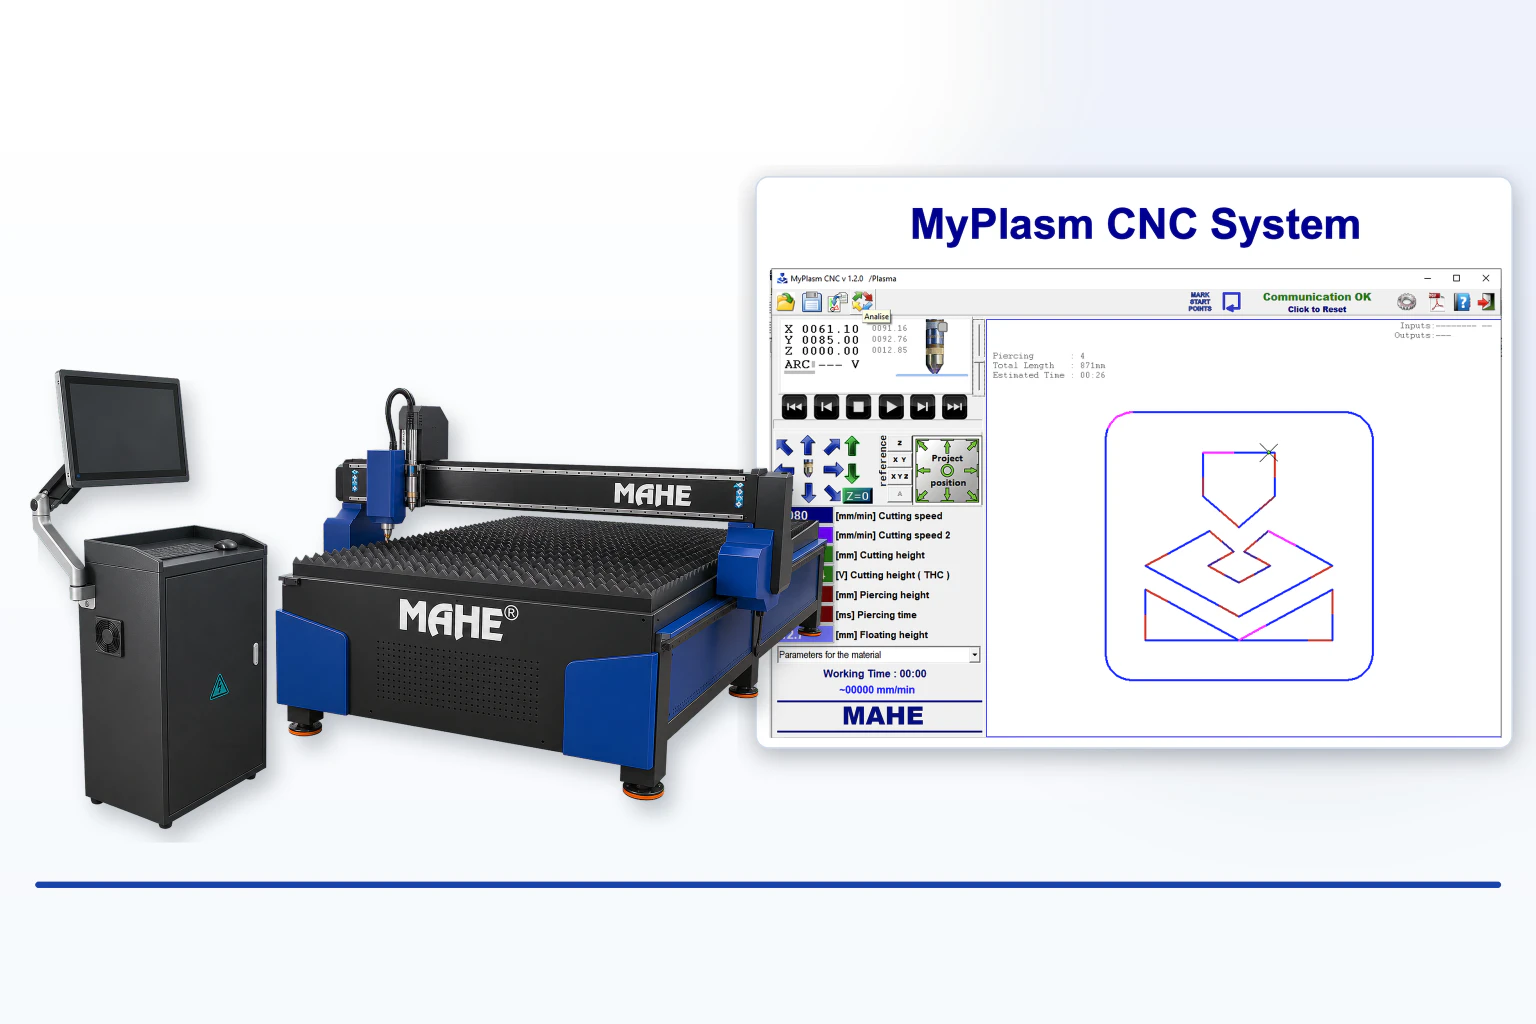
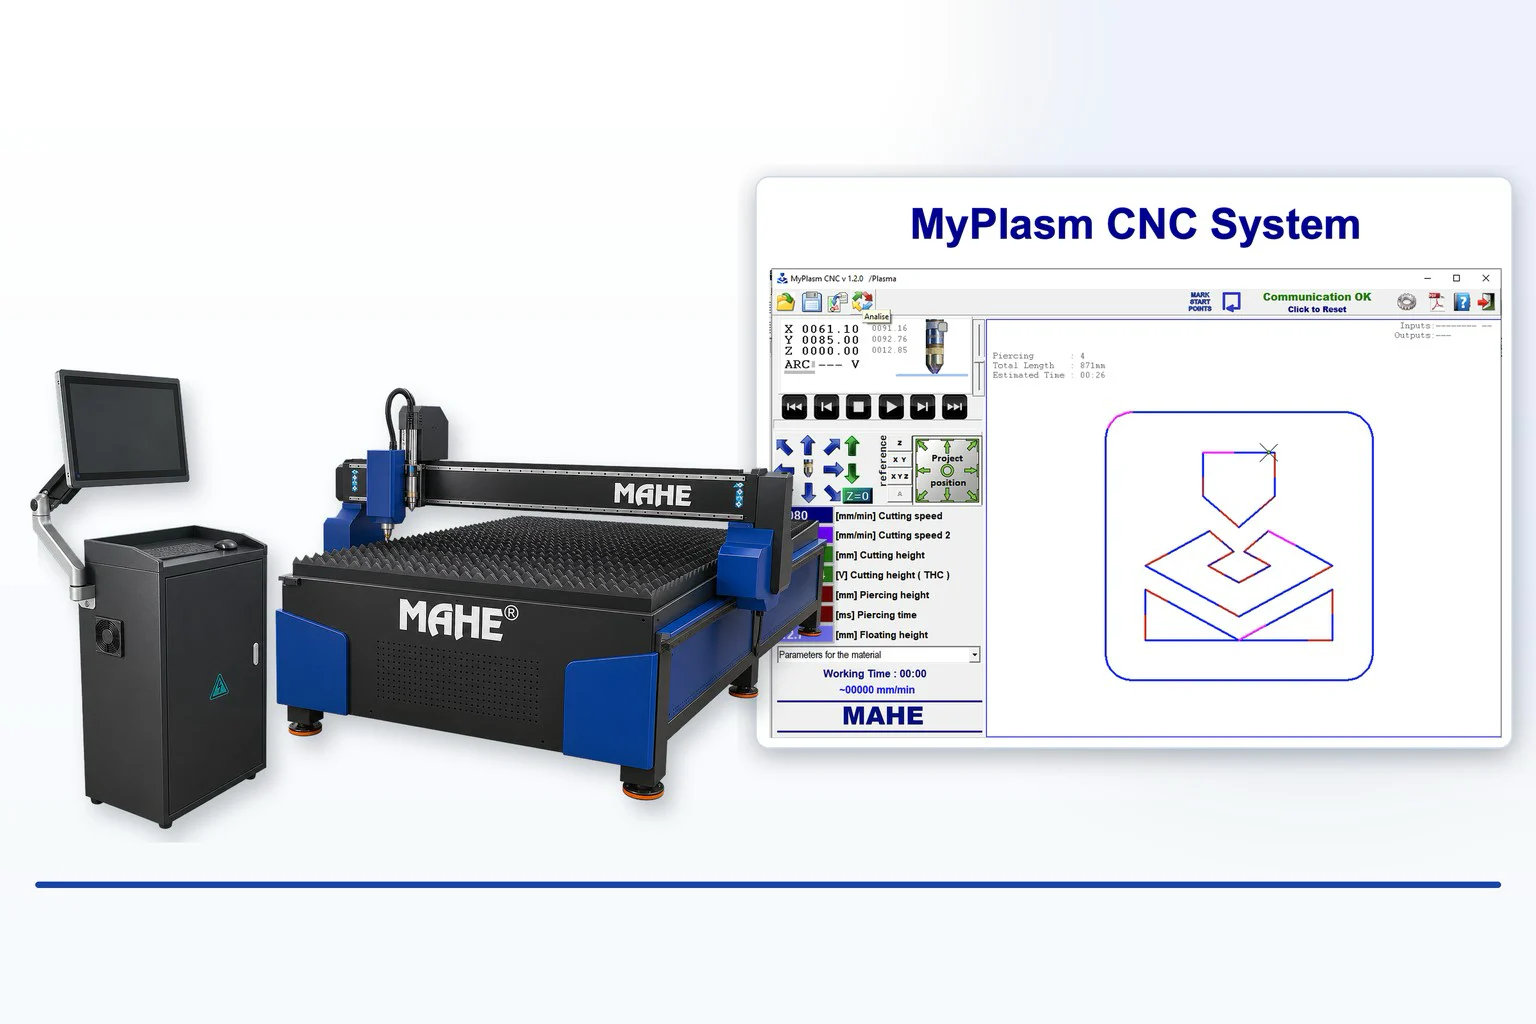
Herobilder: keine hochgerechnete Stufe mehr, Masse aus dem Bild
Die zweite Folie der Diaschau wirkte unscharf. Der Grund war messbar: die
Vorlage hero-mpt.jpg ist 1536 px breit, im srcset stand aber eine Stufe
"2048w". Diese Datei war hochgerechnet - 2048 x 1366 aus einer 1536er
Vorlage. Ein Browser auf einem feinen Bildschirm waehlt genau die groesste
Stufe und zieht damit ein weich gerechnetes Bild auf die volle Breite. Die
kleinere, scharfe Stufe waere besser gewesen.

Dazu ein zweiter Fehler, der noch nicht aufgefallen war: width und height
standen fest auf 1536x1024 - fuer BEIDE Folien. Ein Bild in einem anderen
Seitenverhaeltnis haette die Seite beim Umschalten springen lassen.

Neu build/hero.py:
  - erzeugt die Stufen 640/1000/1536/2048, aber nur bis zur echten Breite der
    Vorlage; groessere werden uebersprungen und alte hochgerechnete Dateien
    entfernt
  - schreibt Breite, Hoehe und die vorhandenen Stufen nach
    assets/img/hero-manifest.json
  - "--pruefen" rechnet nach und meldet jede Stufe, die groesser ist als ihre
    Vorlage

render.py liest srcset und Masse jetzt von dort, pages.py gibt der zweiten
Folie ihre eigenen Masse. Was im HTML steht, steht damit auch als Datei auf
der Platte - das kann nicht mehr auseinanderlaufen.

Beide Folien neu erzeugt mit -q 86 -sharp_yuv. hero-mpt: 306 kB fuer vier
Stufen vorher, 208 kB fuer drei Stufen jetzt - und die groesste ist echt
statt hochgerechnet.

check.py, audit.py und hero.py --pruefen je 0 Fehler.

diff --git a/it/index.html b/it/index.html
@@ -115,7 +115,7 @@
   <div class="hero-slide light" role="group" aria-roledescription="slide"
        aria-label="Immagine 2 di 2">
     <div class="hero-inner">
-      <img class="hero-photo" src="/assets/img/hero-mpt-1536.webp" srcset="/assets/img/hero-mpt-640.webp 640w, /assets/img/hero-mpt-1000.webp 1000w, /assets/img/hero-mpt-1536.webp 1536w, /assets/img/hero-mpt-2048.webp 2048w" sizes="100vw"
+      <img class="hero-photo" src="/assets/img/hero-mpt-1536.webp" srcset="/assets/img/hero-mpt-640.webp 640w, /assets/img/hero-mpt-1000.webp 1000w, /assets/img/hero-mpt-1536.webp 1536w" sizes="100vw"
            width="1536" height="1024" loading="lazy" decoding="async"
            alt="MAHE MPT: CNC-Plasmaschneidtisch mit Bedienkonsole"
            onerror="this.onerror=null;this.removeAttribute('srcset');this.src='/assets/img/hero-mpt.jpg'">

diff --git a/fr/index.html b/fr/index.html
@@ -115,7 +115,7 @@
   <div class="hero-slide light" role="group" aria-roledescription="slide"
        aria-label="Image 2 sur 2">
     <div class="hero-inner">
-      <img class="hero-photo" src="/assets/img/hero-mpt-1536.webp" srcset="/assets/img/hero-mpt-640.webp 640w, /assets/img/hero-mpt-1000.webp 1000w, /assets/img/hero-mpt-1536.webp 1536w, /assets/img/hero-mpt-2048.webp 2048w" sizes="100vw"
+      <img class="hero-photo" src="/assets/img/hero-mpt-1536.webp" srcset="/assets/img/hero-mpt-640.webp 640w, /assets/img/hero-mpt-1000.webp 1000w, /assets/img/hero-mpt-1536.webp 1536w" sizes="100vw"
            width="1536" height="1024" loading="lazy" decoding="async"
            alt="MAHE MPT: CNC-Plasmaschneidtisch mit Bedienkonsole"
            onerror="this.onerror=null;this.removeAttribute('srcset');this.src='/assets/img/hero-mpt.jpg'">

diff --git a/index.html b/index.html
@@ -115,7 +115,7 @@
   <div class="hero-slide light" role="group" aria-roledescription="slide"
        aria-label="Bild 2 von 2">
     <div class="hero-inner">
-      <img class="hero-photo" src="/assets/img/hero-mpt-1536.webp" srcset="/assets/img/hero-mpt-640.webp 640w, /assets/img/hero-mpt-1000.webp 1000w, /assets/img/hero-mpt-1536.webp 1536w, /assets/img/hero-mpt-2048.webp 2048w" sizes="100vw"
+      <img class="hero-photo" src="/assets/img/hero-mpt-1536.webp" srcset="/assets/img/hero-mpt-640.webp 640w, /assets/img/hero-mpt-1000.webp 1000w, /assets/img/hero-mpt-1536.webp 1536w" sizes="100vw"
            width="1536" height="1024" loading="lazy" decoding="async"
            alt="MAHE MPT: CNC-Plasmaschneidtisch mit Bedienkonsole"
            onerror="this.onerror=null;this.removeAttribute('srcset');this.src='/assets/img/hero-mpt.jpg'">

diff --git a/build/hero.py b/build/hero.py
@@ -1,0 +1,154 @@
+#!/usr/bin/env python3
+# -*- coding: utf-8 -*-
+"""
+Die beiden Bilder der Startseiten-Diaschau erzeugen.
+
+    python3 build/hero.py hero-mpt ~/Desktop/mpt.png
+    python3 build/hero.py hero     ~/Desktop/schweisser.jpg
+    python3 build/hero.py --pruefen              # nur nachrechnen
+
+Warum ein eigenes Werkzeug und nicht images.py: die Herobilder kommen nicht von
+mahe-online.de, sondern werden vom Inhaber geliefert. Sie brauchen andere
+Breiten (bis 2048 statt 400) und ihre Masse stehen im HTML, weil das Bild die
+Seite sonst beim Laden springen laesst.
+
+Zwei Dinge macht dieses Skript richtig, die vorher von Hand falsch waren:
+
+1. **Nie hochskalieren.** Die Vorlage hero-mpt.jpg war 1536 px breit, im srcset
+   stand trotzdem eine Stufe "2048w" - erzeugt durch Hochrechnen. Ein Browser
+   auf einem feinen Bildschirm waehlt genau diese Stufe und zieht ein weich
+   gerechnetes Bild auf die volle Breite. Es sieht dadurch schlechter aus als
+   die kleinere, scharfe Stufe. Hier entstehen nur Stufen bis zur echten
+   Breite der Vorlage.
+
+2. **Masse aus dem Bild, nicht aus einer Konstante.** width/height standen fest
+   auf 1536x1024 - fuer beide Folien. Ein Bild im Format 16:9 haette die Seite
+   beim Umschalten springen lassen. Die Masse landen jetzt in
+   assets/img/hero-manifest.json und render.py liest sie von dort.
+"""
+
+import json
+import pathlib
+import shutil
+import subprocess
+import sys
+
+ROOT = pathlib.Path(__file__).resolve().parent.parent
+OUT = ROOT / "assets/img"
+MANIFEST = OUT / "hero-manifest.json"
+
+# Angezeigt wird das Bild hoechstens 1536 CSS-Pixel breit (.hero-inner).
+# Fuer Bildschirme mit doppelter Dichte lohnt die 2048er Stufe - aber nur,
+# wenn die Vorlage sie hergibt.
+STUFEN = [640, 1000, 1536, 2048]
+NAMEN = ("hero", "hero-mpt")
+
+
+def masse(p):
+    """Breite und Hoehe einer Bilddatei, ueber sips (macOS, immer vorhanden)."""
+    r = subprocess.run(["sips", "-g", "pixelWidth", "-g", "pixelHeight", str(p)],
+                       capture_output=True, text=True)
+    w = h = 0
+    for zeile in r.stdout.splitlines():
+        if "pixelWidth" in zeile:
+            w = int(zeile.split(":")[1])
+        elif "pixelHeight" in zeile:
+            h = int(zeile.split(":")[1])
+    if not w or not h:
+        sys.exit(f"Konnte die Masse von {p} nicht lesen.")
+    return w, h
+
+
+def lade_manifest():
+    if MANIFEST.exists():
+        return json.loads(MANIFEST.read_text("utf-8"))
+    return {}
+
+
+def erzeuge(name, quelle):
+    quelle = pathlib.Path(quelle).expanduser()
+    if not quelle.exists():
+        sys.exit(f"Vorlage nicht gefunden: {quelle}")
+    if not shutil.which("cwebp"):
+        sys.exit("cwebp fehlt  ->  brew install webp")
+
+    w, h = masse(quelle)
+    print(f"Vorlage: {quelle.name}  {w} × {h} px")
+    if w < 1200:
+        print(f"  ACHTUNG: nur {w} px breit. Das Band ist bis 1536 px breit -")
+        print("  das Bild wird auf grossen Bildschirmen sichtbar weich.")
+
+    # Rueckfall fuer Browser ohne WebP: dieselbe Vorlage als JPEG, ungestreckt.
+    jpg = OUT / f"{name}.jpg"
+    subprocess.run(["sips", "-s", "format", "jpeg", "-s", "formatOptions", "82",
+                    str(quelle), "--out", str(jpg)],
+                   capture_output=True, check=True)
+
+    gemacht = []
+    for stufe in STUFEN:
+        if stufe > w:
+            print(f"  {stufe:5} px  uebersprungen - Vorlage ist nur {w} px breit")
+            continue
+        ziel = OUT / f"{name}-{stufe}.webp"
+        tmp = OUT / f"_{name}-{stufe}.png"
+        subprocess.run(["sips", "-Z", str(stufe), "-s", "format", "png",
+                        str(quelle), "--out", str(tmp)],
+                       capture_output=True, check=True)
+        subprocess.run(["cwebp", "-quiet", "-q", "86", "-sharp_yuv",
+                        str(tmp), "-o", str(ziel)], check=True)
+        tmp.unlink()
+        bw, bh = masse(ziel)
+        gemacht.append(bw)
+        print(f"  {stufe:5} px  ->  {ziel.name:26} {bw} × {bh}  "
+              f"{ziel.stat().st_size/1024:.0f} kB")
+
+    # Alte, zu grosse Stufen wegraeumen - sonst bleiben hochgerechnete Dateien
+    # liegen und das srcset zeigt weiter darauf.
+    for stufe in STUFEN:
+        if stufe > w:
+            alt = OUT / f"{name}-{stufe}.webp"
+            if alt.exists():
+                alt.unlink()
+                print(f"  entfernt: {alt.name} (war hochgerechnet)")
+
+    m = lade_manifest()
+    m[name] = {"w": w, "h": h, "sizes": gemacht}
+    MANIFEST.write_text(json.dumps(m, ensure_ascii=False, indent=1) + "\n", "utf-8")
+    print(f"\nassets/img/hero-manifest.json aktualisiert: {name} = {w}×{h}, "
+          f"Stufen {gemacht}")
+    print("Jetzt:  python3 build/build.py && python3 build/check.py")
+
+
+def pruefen():
+    """Nachrechnen, ob eine Stufe groesser ist als ihre Vorlage."""
+    m = lade_manifest()
+    fehler = 0
+    for name in NAMEN:
+        q = OUT / f"{name}.jpg"
+        if not q.exists():
+            print(f"  {name}: keine Vorlage {q.name}")
+            continue
+        w, h = masse(q)
+        eintrag = m.get(name)
+        print(f"  {name}: Vorlage {w} × {h}"
+              + (f", Manifest {eintrag['w']} × {eintrag['h']}" if eintrag else ", NICHT im Manifest"))
+        for stufe in STUFEN:
+            f = OUT / f"{name}-{stufe}.webp"
+            if not f.exists():
+                continue
+            bw, bh = masse(f)
+            if bw > w:
+                print(f"     FEHLER {f.name}: {bw} px breit, Vorlage nur {w} px - hochgerechnet")
+                fehler += 1
+            else:
+                print(f"     ok     {f.name}: {bw} × {bh}")
+    sys.exit(1 if fehler else 0)
+
+
+if __name__ == "__main__":
+    if "--pruefen" in sys.argv:
+        pruefen()
+    elif len(sys.argv) == 3 and sys.argv[1] in NAMEN:
+        erzeuge(sys.argv[1], sys.argv[2])
+    else:
+        sys.exit(__doc__.strip())

diff --git a/build/render.py b/build/render.py
@@ -32,12 +32,32 @@ def _ver(rel):
     return rel + "?v=" + hashlib.md5(f.read_bytes()).hexdigest()[:8]
 
 
-# Hero: dasselbe Bild in drei Breiten. Das Original bleibt als hero.jpg liegen
-# und dient dem onerror-Fallback für Browser ohne WebP.
-HERO_SRCSET = ("/assets/img/hero-640.webp 640w, /assets/img/hero-1000.webp 1000w, "
-               "/assets/img/hero-1536.webp 1536w")
-HERO_SRC = "/assets/img/hero-1536.webp"
-HERO_W, HERO_H = 1536, 1024
+# Herobilder: Breiten und Masse kommen aus assets/img/hero-manifest.json,
+# erzeugt von build/hero.py. Fest verdrahtet waren sie vorher zweimal falsch:
+#
+#   * im srcset stand fuer hero-mpt eine Stufe "2048w", obwohl die Vorlage nur
+#     1536 px breit ist - die Datei war hochgerechnet. Ein Browser auf einem
+#     feinen Bildschirm waehlte genau diese Stufe und zog ein weiches Bild auf
+#     die volle Breite. Deshalb wirkte die zweite Folie unscharf.
+#   * width/height standen fest auf 1536x1024 fuer beide Folien. Ein Bild in
+#     einem anderen Seitenverhaeltnis haette die Seite beim Umschalten
+#     springen lassen.
+#
+# Beides kann jetzt nicht mehr auseinanderlaufen: was hier steht, steht auch
+# als Datei auf der Platte. Neues Bild einspielen:
+#     python3 build/hero.py hero-mpt <datei>
+HERO_MANIFEST = json.loads((C.ROOT / "assets/img/hero-manifest.json").read_text("utf-8"))
+
+
+def _hero(name):
+    """(srcset, groesste Datei, Breite, Hoehe) fuer eine Herofolie."""
+    m = HERO_MANIFEST[name]
+    stufen = m["sizes"]
+    srcset = ", ".join(f"/assets/img/{name}-{s}.webp {s}w" for s in stufen)
+    return srcset, f"/assets/img/{name}-{stufen[-1]}.webp", m["w"], m["h"]
+
+
+HERO_SRCSET, HERO_SRC, HERO_W, HERO_H = _hero("hero")
 
 # Das Hero ist das LCP-Element der Startseite. Ohne preload findet der Browser
 # es erst, nachdem er CSS geparst hat – mit preload startet der Download sofort.
@@ -47,9 +67,7 @@ HERO_PRELOAD = (f'<link rel="preload" as="image" href="{HERO_SRC}" '
 # Zweite Herofolie: der Plasmaschneidtisch, freigestellt auf demselben Dunkel
 # wie das Band. Sie wird NICHT vorgeladen - das erste Bild bleibt das LCP-
 # Element, die zweite Folie holt der Browser erst, wenn sie an die Reihe kommt.
-HERO2_SRCSET = ("/assets/img/hero-mpt-640.webp 640w, /assets/img/hero-mpt-1000.webp 1000w, "
-                "/assets/img/hero-mpt-1536.webp 1536w, /assets/img/hero-mpt-2048.webp 2048w")
-HERO2_SRC = "/assets/img/hero-mpt-1536.webp"
+HERO2_SRCSET, HERO2_SRC, HERO2_W, HERO2_H = _hero("hero-mpt")
 
 CSS_URL = _ver("/assets/css/site.css")
 JS_URL = _ver("/assets/js/app.js")

diff --git a/build/pages.py b/build/pages.py
@@ -348,7 +348,7 @@ def page_home(lang):
        aria-label="{e(C.t(lang,'hero_slide', n=2, m=2))}">
     <div class="hero-inner">
       <img class="hero-photo" src="{R.HERO2_SRC}" srcset="{R.HERO2_SRCSET}" sizes="100vw"
-           width="{R.HERO_W}" height="{R.HERO_H}" loading="lazy" decoding="async"
+           width="{R.HERO2_W}" height="{R.HERO2_H}" loading="lazy" decoding="async"
            alt="{e(C.BRAND)} MPT: CNC-Plasmaschneidtisch mit Bedienkonsole"
            onerror="this.onerror=null;this.removeAttribute('srcset');this.src='/assets/img/hero-mpt.jpg'">
       <div class="hero-txt">
